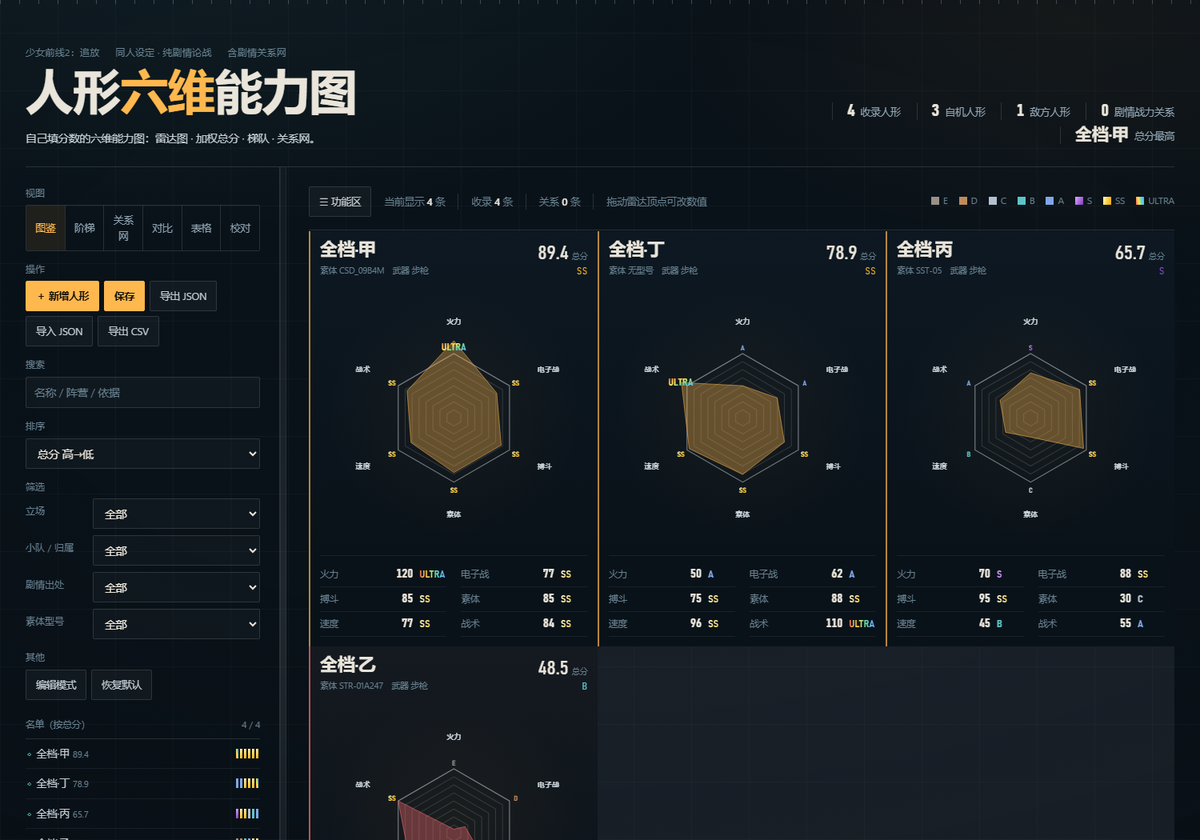
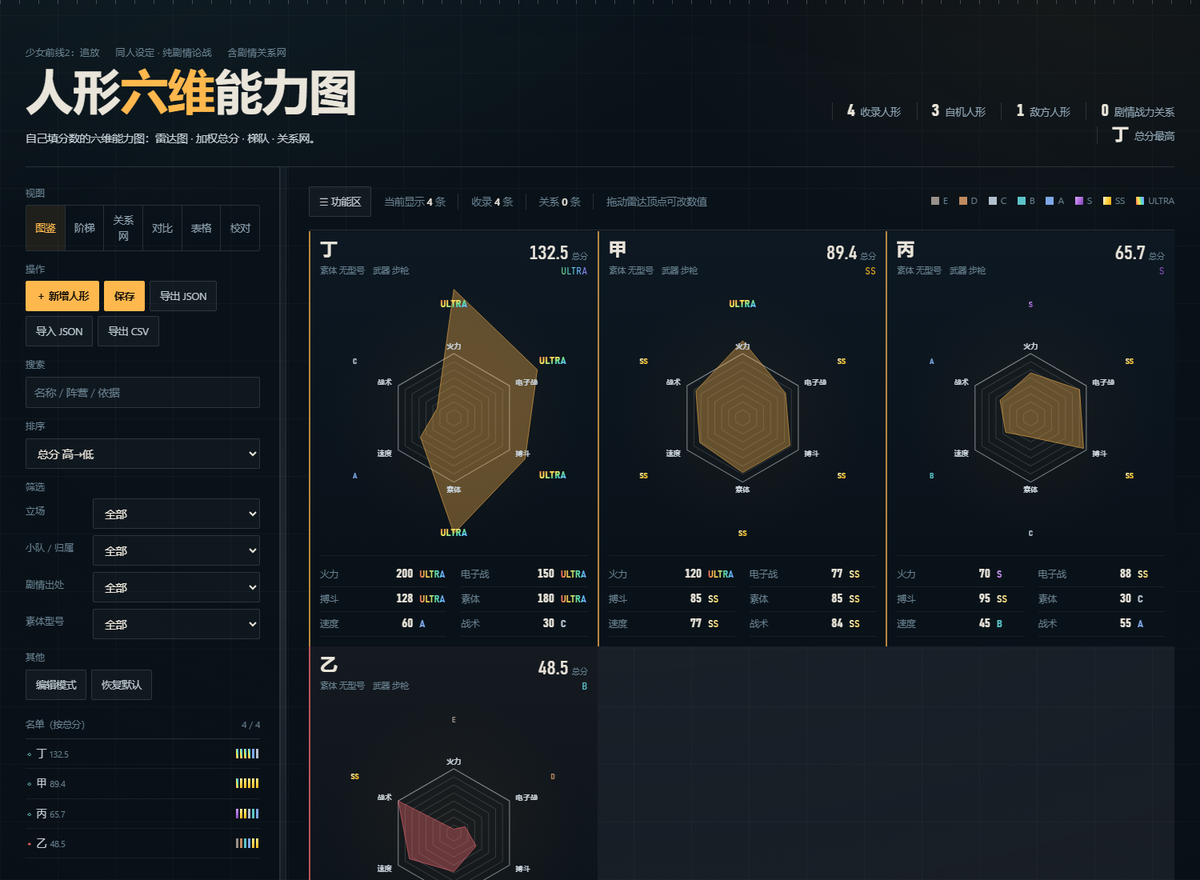
chore(layout): 落地作者第二版排版配置（名字 80、档位字 128、档位字号 9/12）

diff --git a/少前2_人形六维能力图.html b/少前2_人形六维能力图.html
@@ -545,8 +545,8 @@ var LAYOUT = {
   sizeCard: 300, R100: 72, gridRings: 8, overflow: 'always',
   overflowAlpha: 0, ringAlpha: 0.145, ringMajorAlpha: 0.5, axisAlpha: 0,
   polyStroke: 0.5, polyFill: 0.35,
-  nameR: 108, nameSize: 8, nameWeight: 600, nameStroke: 0,
-  gradeR: 80, gradeSize: 8, ultraSize: 11, gradeStroke: 0, ultraStroke: 0,
+  nameR: 80, nameSize: 8, nameWeight: 600, nameStroke: 0,
+  gradeR: 128, gradeSize: 9, ultraSize: 12, gradeStroke: 0, ultraStroke: 0,
   cardMinW: 276, cardGap: 0, cardPad: 12, cardInnerGap: 4
 };
 function applyLayout(){

diff --git a/六维图_排版调参器.html b/六维图_排版调参器.html
@@ -123,8 +123,8 @@ var DEFAULTS = {
     sizeCard: 300, R100: 72, gridRings: 8, overflow: 'always',
     overflowAlpha: 0, ringAlpha: 0.145, ringMajorAlpha: 0.5, axisAlpha: 0,
     polyStroke: 0.5, polyFill: 0.35,
-    nameR: 108, nameSize: 8, nameWeight: 600, nameStroke: 0,
-    gradeR: 80, gradeSize: 8, ultraSize: 11, gradeStroke: 0, ultraStroke: 0
+    nameR: 80, nameSize: 8, nameWeight: 600, nameStroke: 0,
+    gradeR: 128, gradeSize: 9, ultraSize: 12, gradeStroke: 0, ultraStroke: 0
   },
   card: { minW: 276, gap: 0, pad: 12, innerGap: 4 }
 };

diff --git a/_work/进展摘要.md b/_work/进展摘要.md
@@ -47,7 +47,7 @@
 - **素体＝型号的纯函数**：`frameBaseline` 里型号→分值，同型号必须同分（自检 11）。
 - **拖动只在单序列雷达上**（普通卡片与编辑弹窗）；双形态卡是两条折线，不参与拖动。
 - **页面内置数据不会自动跟着 JSON 变**，改完要手动同步（自检 02–04 盯着）。
-- **排版参数集中在 `LAYOUT`**（页面顶部）：R100=72、网格 8 圈、ringAlpha .145、100 环 .5、无轴无线、多边形 0.5 描边 + 0.35 填充、名字环 108／字号 8、档位字环 80／字号 8（ULTRA 11）、卡片 276/0/12/4；卡片版式经 CSS 变量落地。**顶点圆点与档位弧已整体删除**（作者 2026-10-10 定）。
+- **排版参数集中在 `LAYOUT`**（页面顶部）：R100=72、网格 8 圈、ringAlpha .145、100 环 .5、无轴无线、多边形 0.5 描边 + 0.35 填充、名字环 80（贴 100 环外沿）／字号 8、档位字环 128／字号 9（ULTRA 12）、卡片 276/0/12/4；卡片版式经 CSS 变量落地。**顶点圆点与档位弧已整体删除**（作者 2026-10-10 定）。
 - **雷达标签固定两条环带**（位置不随数值移动，结构上不可能压字）：维度名贴 100 环**内**沿、朝圆心排；档位字贴 100 环**外**沿、朝外排；两者都加深色描边（`paint-order:stroke`），压在色块上也读得清。实测极端值六条轴零重叠。
 - **卡片不做装饰**：去掉切角／顶部横线／右上角折，也去掉了拖动顶点的 hover 提示环（只留 cursor:grab）。
 - **页面不放说明文案**：口径、沿革、依据只写在 JSON 与 `_work/剧情证据与评分依据.md` 里，界面保持干净。
